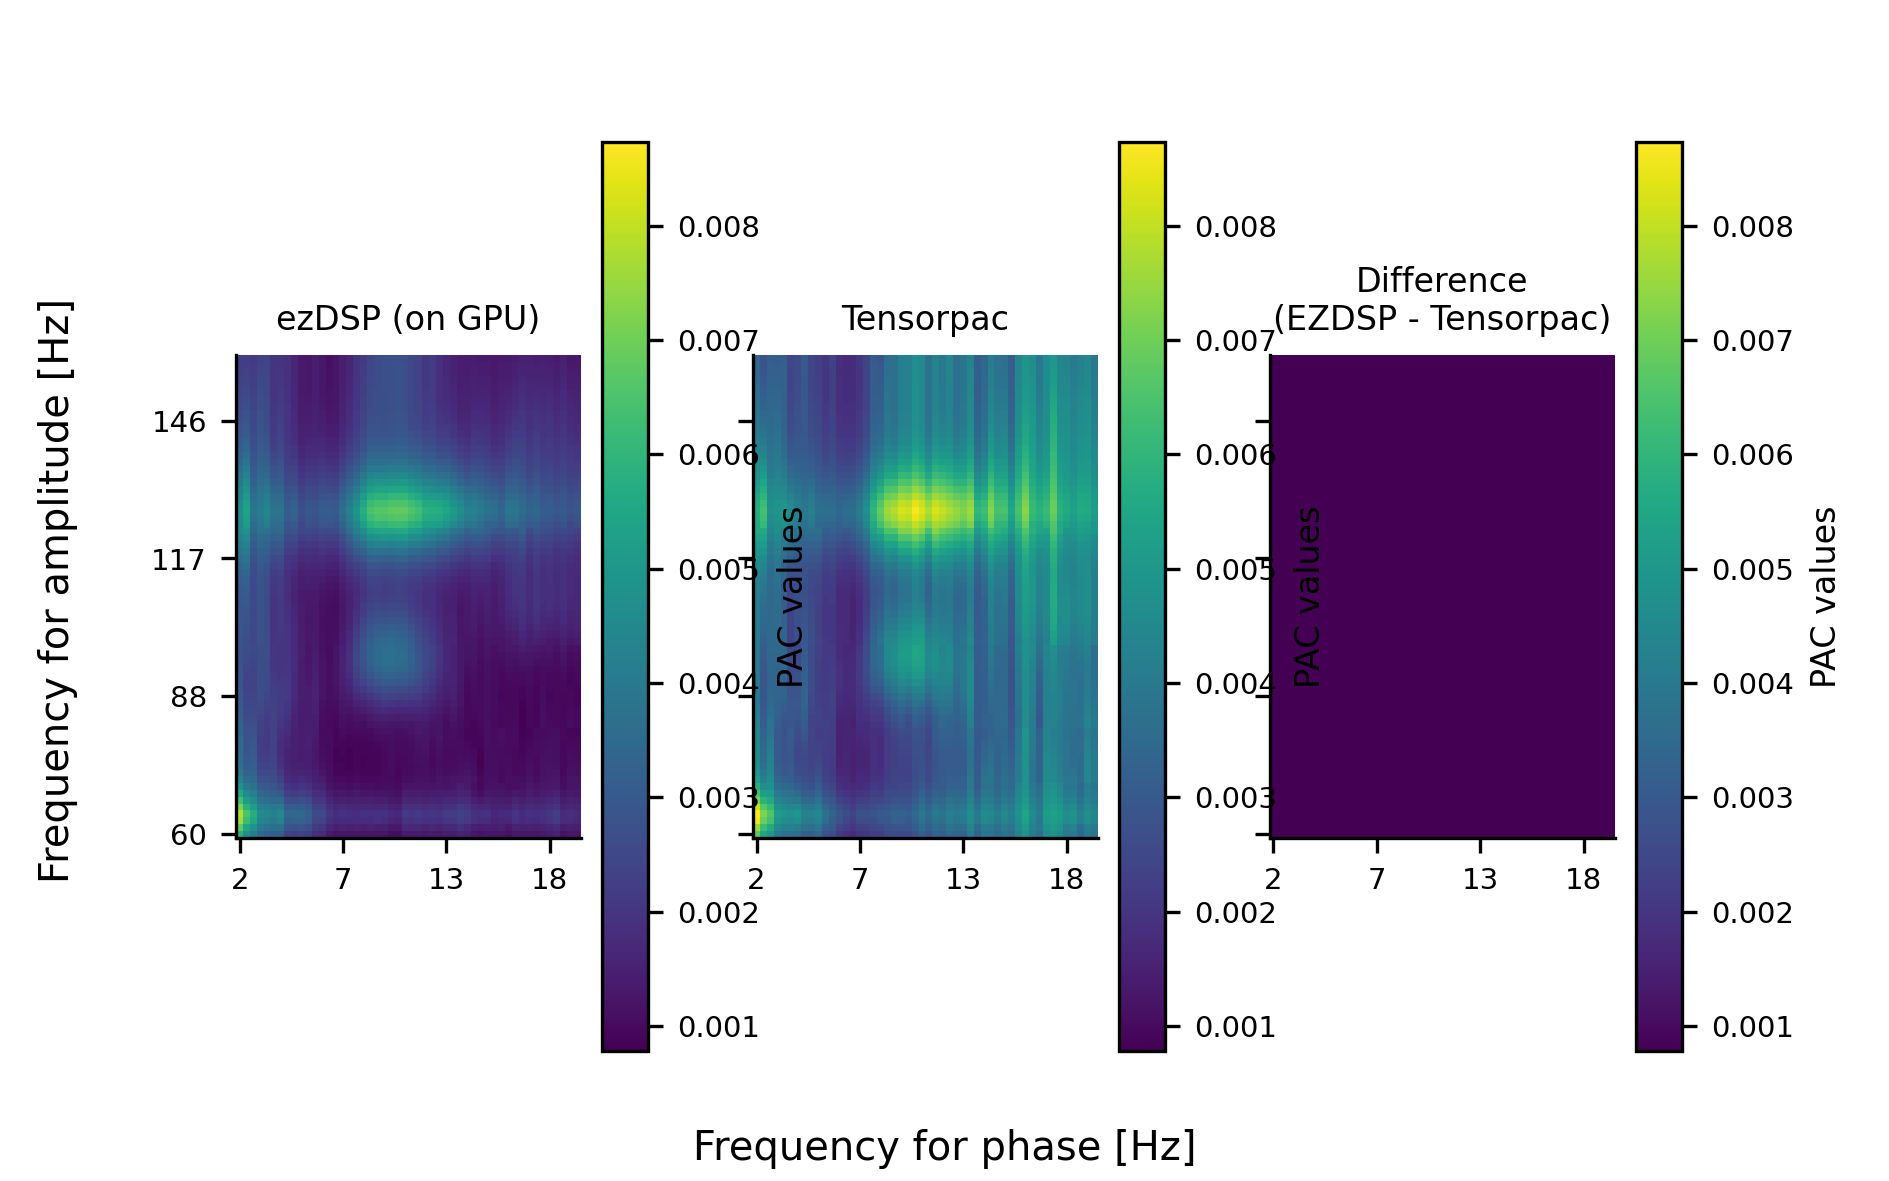
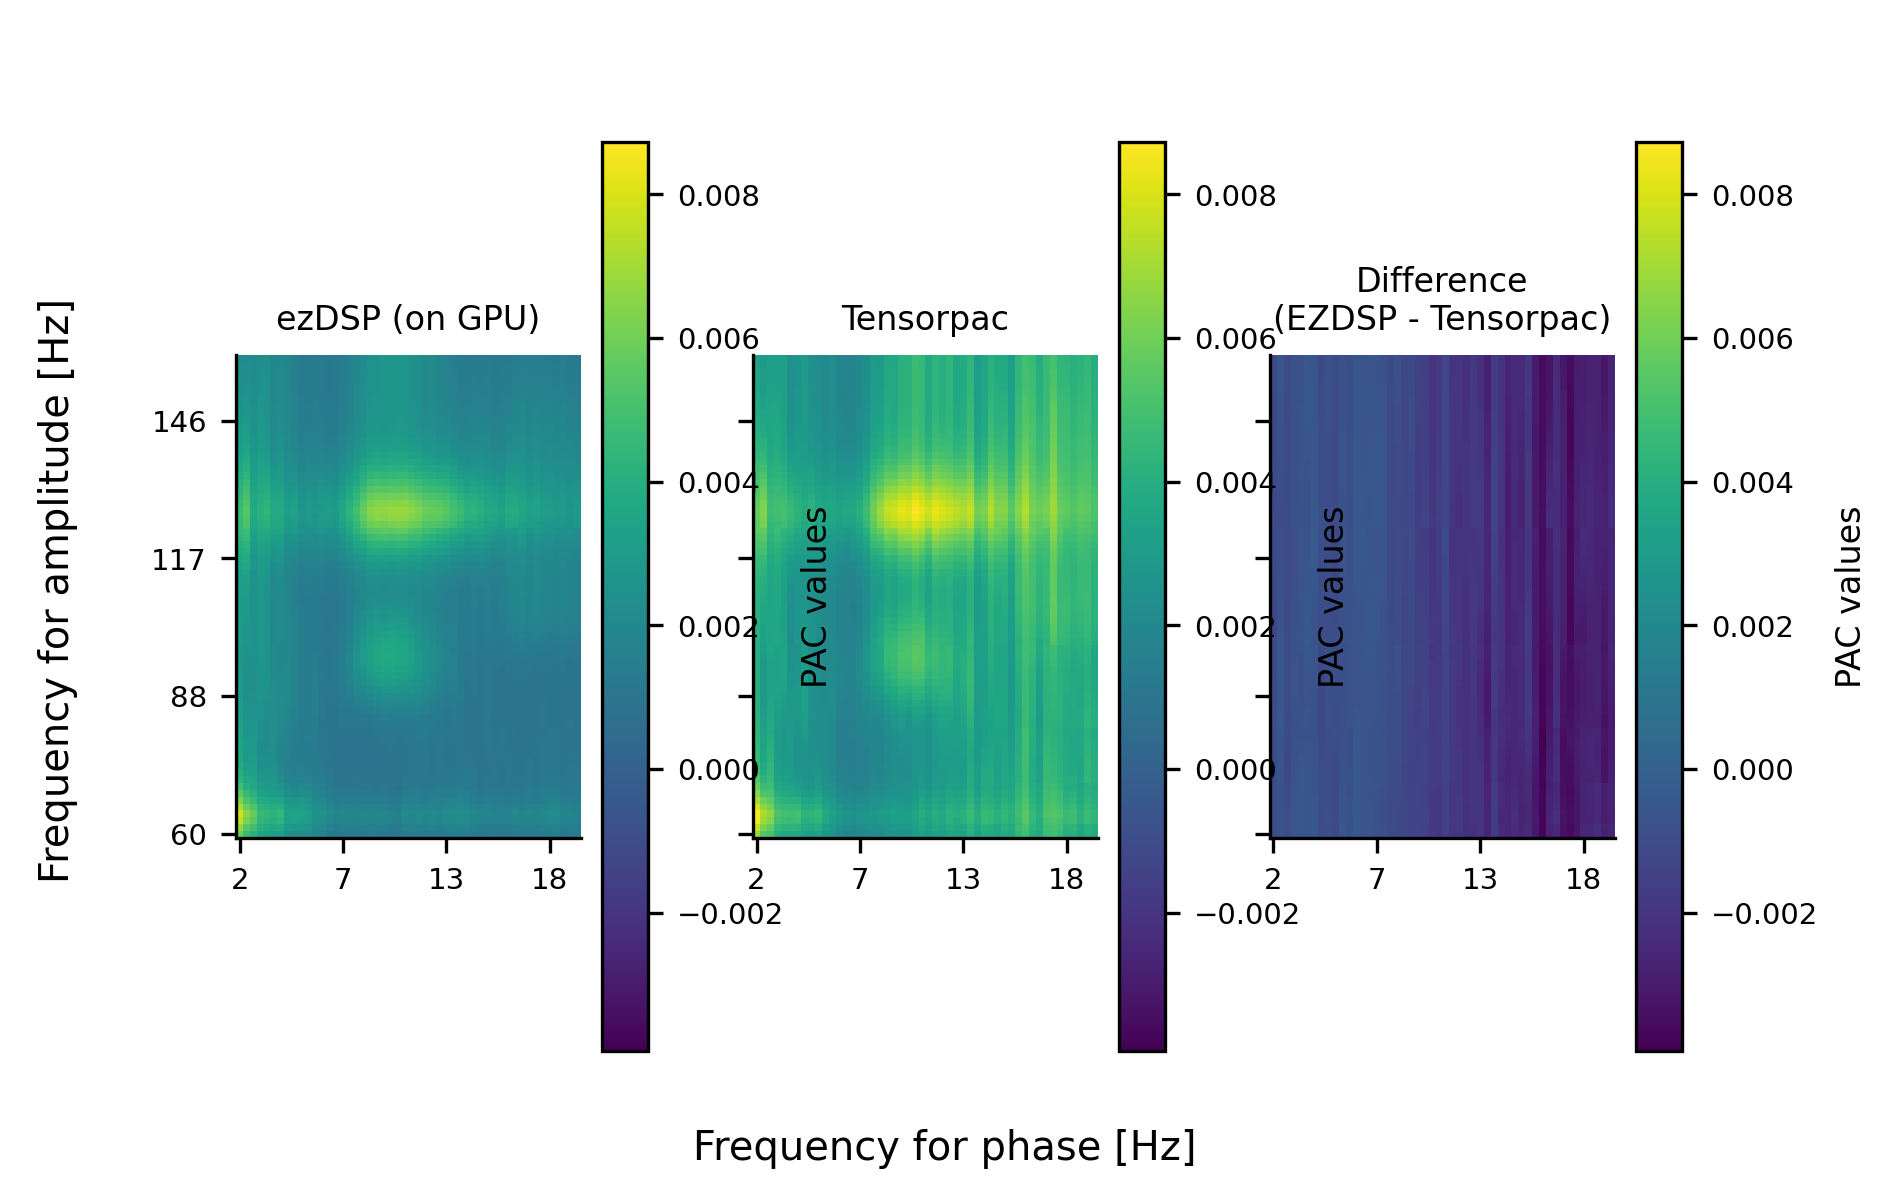
update

diff --git a/src/ezdsp/nn/_PAC.py b/src/ezdsp/nn/_PAC.py
@@ -1,6 +1,6 @@
 #!/usr/bin/env python3
 # -*- coding: utf-8 -*-
-# Time-stamp: "2024-04-09 01:26:52 (ywatanabe)"
+# Time-stamp: "2024-04-09 01:43:37 (ywatanabe)"
 
 
 import warnings
@@ -20,6 +20,7 @@ class PAC(nn.Module):
         amp_start_hz=60,
         amp_end_hz=160,
         amp_n_bands=100,
+        n_bins=18,
     ):
         super().__init__()
 
@@ -37,15 +38,13 @@ class PAC(nn.Module):
 
         # Calculation modules
         self.bandpass_filters_pha = [
-            BandPassFilter(ll, hh, fs, kernel_size=None)
-            for ll, hh in self.BANDS_PHA
+            BandPassFilter(ll, hh, fs) for ll, hh in self.BANDS_PHA
         ]
         self.bandpass_filters_amp = [
-            BandPassFilter(ll, hh, fs, kernel_size=None)
-            for ll, hh in self.BANDS_AMP
+            BandPassFilter(ll, hh, fs) for ll, hh in self.BANDS_AMP
         ]
         self.hilbert = Hilbert(dim=-1)
-        self.modulation_index = ModulationIndex(n_bins=18)
+        self.modulation_index = ModulationIndex(n_bins=n_bins)
 
     def forward(self, x):
         """x.shape: (batch_size, n_chs, seq_len) or (batch_size, n_chs, n_segments, seq_len)"""
@@ -62,45 +61,45 @@ class PAC(nn.Module):
         I_SEQ_LEN = 4
 
         # Phase
-        # pha = torch.stack(
-        #     [bf_pha(x_3d) for bf_pha in self.bandpass_filters_pha],
-        #     dim=I_FREQS - 1,
-        # )
-        # pha = self.hilbert(pha)[..., 0]
-        # pha = pha.reshape(batch_size, n_chs, *pha.shape[1:])
-        # assert pha.ndim == 5
-
-        # # Amplitude
-        # amp = torch.stack(
-        #     [bf_amp(x_3d) for bf_amp in self.bandpass_filters_amp],
-        #     dim=I_FREQS - 1,
-        # )
-        # amp = self.hilbert(amp)[..., 1]
-        # amp = amp.reshape(batch_size, n_chs, *amp.shape[1:])
-        # assert amp.ndim == 5
-
-        pha = (
-            torch.stack(
-                [
-                    self.hilbert(bf_pha(x.squeeze(0)))
-                    for bf_pha in self.bandpass_filters_pha
-                ],
-                dim=I_FREQS,
-            )[..., 0]
-            .unsqueeze(I_CHS)
-            .transpose(I_FREQS, I_SEGMENTS)
+        pha = torch.stack(
+            [bf_pha(x_3d) for bf_pha in self.bandpass_filters_pha],
+            dim=I_FREQS - 1,
         )
-        amp = (
-            torch.stack(
-                [
-                    self.hilbert(bf_amp(x.squeeze(0)))
-                    for bf_amp in self.bandpass_filters_amp
-                ],
-                dim=I_FREQS,
-            )[..., 1]
-            .unsqueeze(I_CHS)
-            .transpose(I_FREQS, I_SEGMENTS)
+        pha = self.hilbert(pha)[..., 0]
+        pha = pha.reshape(batch_size, n_chs, *pha.shape[1:])
+        assert pha.ndim == 5
+
+        # Amplitude
+        amp = torch.stack(
+            [bf_amp(x_3d) for bf_amp in self.bandpass_filters_amp],
+            dim=I_FREQS - 1,
         )
+        amp = self.hilbert(amp)[..., 1]
+        amp = amp.reshape(batch_size, n_chs, *amp.shape[1:])
+        assert amp.ndim == 5
+
+        # pha = (
+        #     torch.stack(
+        #         [
+        #             self.hilbert(bf_pha(x.squeeze(0)))
+        #             for bf_pha in self.bandpass_filters_pha
+        #         ],
+        #         dim=I_FREQS,
+        #     )[..., 0]
+        #     .unsqueeze(I_CHS)
+        #     .transpose(I_FREQS, I_SEGMENTS)
+        # )
+        # amp = (
+        #     torch.stack(
+        #         [
+        #             self.hilbert(bf_amp(x.squeeze(0)))
+        #             for bf_amp in self.bandpass_filters_amp
+        #         ],
+        #         dim=I_FREQS,
+        #     )[..., 1]
+        #     .unsqueeze(I_CHS)
+        #     .transpose(I_FREQS, I_SEGMENTS)
+        # )
         pac = self.modulation_index(pha, amp)
         return pac
 

diff --git a/src/ezdsp/_pac.py b/src/ezdsp/_pac.py
@@ -1,6 +1,6 @@
 #!/usr/bin/env python3
 # -*- coding: utf-8 -*-
-# Time-stamp: "2024-04-09 01:25:00 (ywatanabe)"
+# Time-stamp: "2024-04-09 01:54:55 (ywatanabe)"
 
 import ezdsp
 from ezdsp._modulation_index import calc_pac_with_tensorpac
@@ -64,7 +64,7 @@ if __name__ == "__main__":
 
     # Parameters
     FS = 512
-    T_SEC = 5
+    T_SEC = 8
 
     xx, tt, fs = ezdsp.demo_sig(
         batch_size=1, n_chs=1, fs=FS, t_sec=T_SEC, sig_type="tensorpac"
@@ -72,8 +72,8 @@ if __name__ == "__main__":
 
     # Tensorpac calculation
     (
-        pha_tp,
-        amp_tp,
+        _,
+        _,
         freqs_pha_tp,  # (50,)
         freqs_amp_tp,  # (70,)
         pac_tp,  # (50, 70)
@@ -94,8 +94,8 @@ if __name__ == "__main__":
     fig, axes = mngs.plt.subplots(ncols=3, sharex=True, sharey=True)
 
     # To align scalebars
-    vmin = min(np.min(pac_ed), np.min(pac_tp))
-    vmax = max(np.max(pac_ed), np.max(pac_tp))
+    vmin = min(np.min(pac_ed), np.min(pac_tp), np.min(pac_ed - pac_tp))
+    vmax = max(np.max(pac_ed), np.max(pac_tp), np.max(pac_ed - pac_tp))
 
     # EZDSP
     axes[0].imshow2d(

diff --git a/src/ezdsp/nn/_Filters.py b/src/ezdsp/nn/_Filters.py
@@ -1,6 +1,6 @@
 #!/usr/bin/env python3
 # -*- coding: utf-8 -*-
-# Time-stamp: "2024-04-08 17:37:32 (ywatanabe)"
+# Time-stamp: "2024-04-09 01:50:03 (ywatanabe)"
 
 import math
 import warnings
@@ -145,8 +145,8 @@ class BandPassFilter(BaseFilter1D):
         assert high_hz <= fs / 2
 
         kernel_size = (
-            _to_even(int(1 / low_hz * fs * 3))
-            # _to_even(int(low_hz * fs * 3))
+            # _to_even(int(1 / low_hz * fs * 3))
+            _to_even(int(1 / low_hz * fs * 5))
             if kernel_size is None
             else _to_even(kernel_size)
         )
@@ -169,8 +169,8 @@ class BandStopFilter(BaseFilter1D):
     def __init__(self, low_hz, high_hz, fs, kernel_size=None):
         super().__init__()
         kernel_size = (
-            _to_even(int(1 / low_hz * fs * 3))
-            # _to_even(int(low_hz * fs * 3))
+            _to_even(int(1 / low_hz * fs * 5))
+            # _to_even(int(1 / low_hz * fs * 3))
             if kernel_size is None
             else _to_even(kernel_size)
         )

diff --git a/src/ezdsp/_modulation_index.py b/src/ezdsp/_modulation_index.py
@@ -1,6 +1,6 @@
 #!/usr/bin/env python3
 # -*- coding: utf-8 -*-
-# Time-stamp: "2024-04-09 01:10:36 (ywatanabe)"
+# Time-stamp: "2024-04-09 01:55:08 (ywatanabe)"
 
 import torch
 from ezdsp.nn import ModulationIndex
@@ -69,8 +69,8 @@ if __name__ == "__main__":
     mngs.plt.configure_mpl(plt, fig_scale=5)
 
     # Parameters
-    FS = 128
-    T_SEC = 5
+    FS = 512
+    T_SEC = 8
 
     # Demo signal
     xx, tt, fs = ezdsp.demo_sig(
@@ -102,8 +102,8 @@ if __name__ == "__main__":
     fig, axes = mngs.plt.subplots(ncols=3, sharex=True, sharey=True)
 
     # To align scalebars
-    vmin = min(np.min(pac_ed), np.min(pac_tp))
-    vmax = max(np.max(pac_ed), np.max(pac_tp))
+    vmin = min(np.min(pac_ed), np.min(pac_tp), np.min(pac_ed - pac_tp))
+    vmax = max(np.max(pac_ed), np.max(pac_tp), np.max(pac_ed - pac_tp))
 
     # EZDSP
     axes[0].imshow2d(

diff --git a/README.md b/README.md
@@ -32,6 +32,9 @@ $ python ./example.py # ./example_outputs/ will be generated.
 <div align="center">
   <img src="./example_outputs/modulation_index_calculation_with_ezDSP_and_Tensorpac.png" height="400">
 </div>
+<!-- <div align="center">
+ !--   <img src="./example_outputs/pac_calculation_with_ezDSP_and_Tensorpac.png" height="400">
+ !-- </div> -->
 
 ## Quick Start
 ``` python
